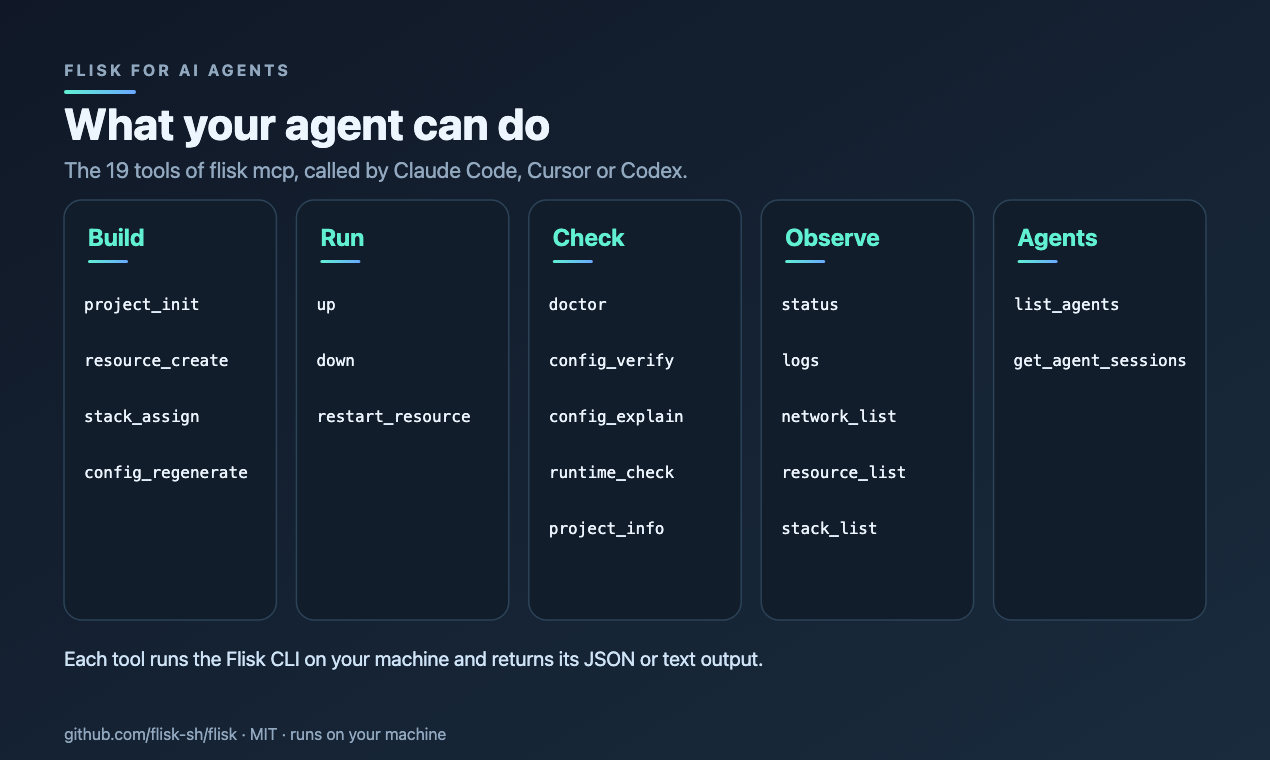
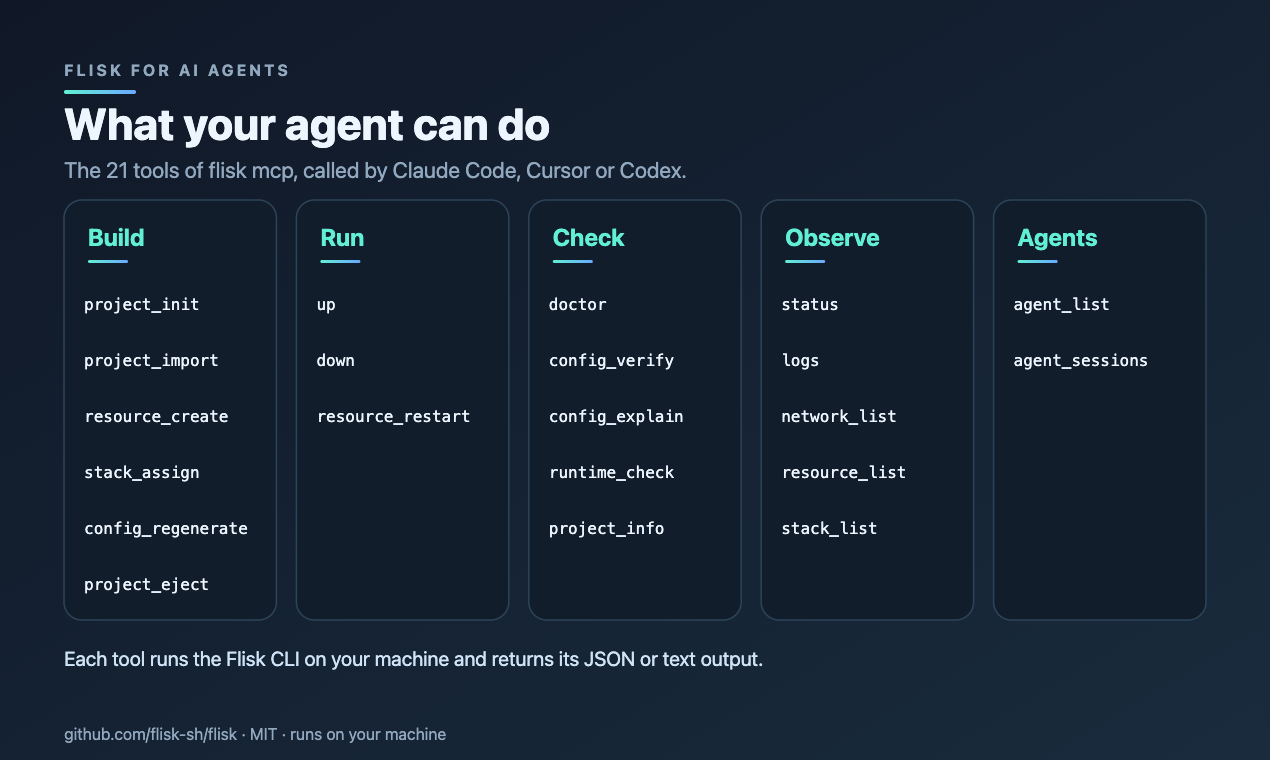
docs(launch): use flisk connect in the agents launch kit
flisk connect <claude|cursor|codex> shipped in 1.4.9, so gallery card 2
now shows it with the files each host gets, in place of the per-host
commands and the skills install. The kit's two open items are marked
shipped (the connect command, flisk.sh/agents), the first comment gets
the one-command line, and the posts point at flisk.sh/agents.

The tool facts follow flisk 1.4.10: 21 tools (was 19) on cards 1 and 3
and in the copy, card 3 lists the current names (resource_restart,
agent_list, agent_sessions) and the missing project_import and
project_eject, and the video script uses resource_restart.

diff --git a/docs/launch/flisk-for-agents/README.md b/docs/launch/flisk-for-agents/README.md
@@ -6,22 +6,23 @@ Everything the maker needs to post "Flisk for AI agents" on Product Hunt and to 
 - [checklist.md](checklist.md): the next 24 hours, in Pacific time.
 - [gallery/](gallery/): the five gallery images (SVG source and PNG), and the script that writes them.
 
-Before anything goes out, check two open items:
+The two items that were open have shipped:
 
-1. **The connect command.** The one-command connect is being built on the `feat/flisk-for-agents` branch and is not on `main` yet. The working name is flisk connect followed by the host (claude, cursor or codex). This kit uses the commands that work today (the per-host setup in [Set up the Flisk MCP server](../../agent-tooling/flisk-mcp-setup.md)). When the connect command merges, put its real name and flags into the first comment, the posts below and gallery card 2 (`CONNECT` in [gallery/build.mjs](gallery/build.mjs)), and run it once on a clean machine first.
-2. **The landing page.** flisk.sh/agents is being built. Until it answers, use the repository link (https://github.com/flisk-sh/flisk) as the product link.
+1. **The connect command.** `flisk connect claude`, `flisk connect cursor` and `flisk connect codex` are in the published CLI since 1.4.9 ([Flisk for AI agents](../../agents/flisk-for-agents.md)). This kit, the first comment and gallery card 2 use them. Run one once on a clean machine before the launch.
+2. **The landing page.** https://flisk.sh/agents/ answers. Use it as the product link, with the repository as the second link.
 
 ## What the product is (one paragraph, for anyone writing about it)
 
-Flisk for AI agents gives a coding agent (Claude Code, Cursor or Codex) the Flisk runtime: the `flisk mcp` server, which ships inside the Flisk CLI and exposes 19 tools, plus the Flisk agent skills. With them the agent can create a project, add services, start the stack on Docker and Tilt, check readiness, read logs and restart what broke, instead of hand-writing Compose files and guessing. The core is MIT and needs no key or account. It runs on the user's machine; it is not a hosted service and not a deploy tool.
+Flisk for AI agents gives a coding agent (Claude Code, Cursor or Codex) the Flisk runtime: the `flisk mcp` server, which ships inside the Flisk CLI and exposes 21 tools, plus the Flisk agent skills. With them the agent can create a project, add services, start the stack on Docker and Tilt, check readiness, read logs and restart what broke, instead of hand-writing Compose files and guessing. The core is MIT and needs no key or account. It runs on the user's machine; it is not a hosted service and not a deploy tool.
 
 Facts this rests on (check before you repeat them):
 
 | Fact | Where it is checked |
 | --- | --- |
-| `flisk mcp` has 19 tools | `cli/src/mcp/tools.ts`; a `tools/list` call against the CLI built from `main` returned 19 names on 2026-10-27, and the published `@flisk-sh/flisk` 1.4.8 package contains `project_init` and `stack_assign` |
+| `flisk mcp` has 21 tools | `cli/src/mcp/tools.ts`; a `tools/list` call to `flisk mcp` from the published `@flisk-sh/flisk` 1.4.10 binary returned 21 names on 2026-10-27 |
+| `flisk connect` sets up Claude Code, Cursor and Codex | [Flisk for AI agents](../../agents/flisk-for-agents.md); `flisk connect claude\|cursor\|codex --dry-run` from the published 1.4.10 package lists the files it writes |
 | Claude Code, Cursor, Codex (and Claude Desktop) are supported clients | [Set up the Flisk MCP server](../../agent-tooling/flisk-mcp-setup.md) |
-| Skills | [flisk-skills](https://github.com/flisk-sh/flisk-skills), installed with `npx skills add flisk-sh/flisk-skills`; `flisk project` also adds `.claude/skills`, `.agents/skills` and `AGENTS.md` to a new project (seen in a real `project_init` call) |
+| Skills | [flisk-skills](https://github.com/flisk-sh/flisk-skills); `flisk connect` writes them for the host, and `flisk project` also adds `.claude/skills`, `.agents/skills` and `AGENTS.md` to a new project (seen in a real `project_init` call) |
 | MIT core, no key | [LICENSE](../../../LICENSE), and the license boundary in GOVERNANCE.md |
 | Needs Docker and Tilt to start a stack; native Windows needs WSL2 for `flisk up` | [docs/wsl2.md](../../wsl2.md) and the setup page |
 
@@ -37,17 +38,17 @@ No performance numbers appear in this kit. If someone asks for one, use only the
 | --- | --- | --- |
 | 1 | Let your coding agent build and run your local stack | 52 |
 | 2 | Claude Code, Cursor and Codex, now with a local runtime | 55 |
-| 3 | 19 MCP tools so your AI agent can run the whole stack | 53 |
+| 3 | 21 MCP tools so your AI agent can run the whole stack | 53 |
 
 **Chosen: 1, "Let your coding agent build and run your local stack".** It says who acts (your agent), what it does (build and run) and where (local), without a number to defend or a list of brand names that reads like a partnership. Option 2 names the hosts, which is good for search but says less about the outcome; option 3 leads with a count, which is accurate but not a reason to care.
 
 **Description** (259 characters; Product Hunt allows up to 500, the kit keeps it to 260 so it fits a card):
 
-> Connect Claude Code, Cursor or Codex to the Flisk runtime: the flisk mcp server with 19 tools, plus the Flisk skills. Your agent scaffolds services, starts the stack on Docker and Tilt, reads status and logs, and fixes what broke. Free MIT core, runs locally.
+> Connect Claude Code, Cursor or Codex to the Flisk runtime: the flisk mcp server with 21 tools, plus the Flisk skills. Your agent scaffolds services, starts the stack on Docker and Tilt, reads status and logs, and fixes what broke. Free MIT core, runs locally.
 
 **Launch tags** (Product Hunt allows three): Developer Tools, Artificial Intelligence, Open Source.
 
-**Links:** the repository (https://github.com/flisk-sh/flisk) as the main link until flisk.sh/agents answers; then the landing page, with the repository as the second link.
+**Links:** the landing page (https://flisk.sh/agents/) as the main link, with the repository (https://github.com/flisk-sh/flisk) as the second link.
 
 **Thumbnail:** the existing Flisk mark, 240x240, under 3 MB. Do not reuse the Oct 27 listing's gallery.
 
@@ -59,7 +60,9 @@ Post it right after the listing goes live (it can also be added when scheduling)
 
 > Hi, I'm one of the people who make Flisk. Yesterday we put the Flisk CLI itself on Product Hunt. Today is the part we use most ourselves: handing a local stack to a coding agent.
 >
-> What it is: the flisk mcp server that ships inside the Flisk CLI (19 tools such as doctor, project_init, resource_create, up, status, logs and restart_resource) plus the Flisk skills. Connect it to Claude Code, Cursor or Codex, and the agent can create the project, add services, start them on Docker and Tilt, check which ones are ready and read the logs of the one that failed, instead of writing Compose files by hand and guessing.
+> What it is: the flisk mcp server that ships inside the Flisk CLI (21 tools such as doctor, project_init, resource_create, up, status, logs and resource_restart) plus the Flisk skills. Connect it to Claude Code, Cursor or Codex, and the agent can create the project, add services, start them on Docker and Tilt, check which ones are ready and read the logs of the one that failed, instead of writing Compose files by hand and guessing.
+>
+> One command connects it: `flisk connect claude` (or `cursor`, `codex`), after `npm install -g @flisk-sh/flisk`.
 >
 > What it is not: it is not hosted and not a deploy tool. It runs on your machine and needs Docker and Tilt to start a stack. On Windows it needs WSL2. The core is MIT and needs no key or account.
 >
@@ -67,7 +70,7 @@ Post it right after the listing goes live (it can also be added when scheduling)
 >
 > What would you want your agent to be able to do with your local stack that it cannot do today?
 
-About 170 words. If the connect command has merged, add one line after the second paragraph with the exact command, for example "One command connects it: (the command)". Do not add it before it works on a clean machine.
+About 185 words. Run the connect command once on a clean machine before posting; if it fails there, drop that line.
 
 ## Gallery
 
@@ -85,8 +88,8 @@ done
 | # | File | What it shows | Alt text |
 | --- | --- | --- | --- |
 | 1 | `gallery/01-title.png` | The name, the chosen tagline, the three hosts and the five verbs (scaffold, start, check, read logs, fix) | Flisk for AI agents: let your coding agent build and run your local stack |
-| 2 | `gallery/02-connect.png` | The per-host commands that connect Claude Code, Codex and Cursor to `flisk mcp`, plus the skills install, and the CLI install line | The commands that connect Claude Code, Codex and Cursor to the Flisk MCP server |
-| 3 | `gallery/03-agent-tools.png` | The 19 tool names, grouped as Build, Run, Check, Observe and Agents | The 19 tools of the Flisk MCP server, grouped by what an agent does with them |
+| 2 | `gallery/02-connect.png` | `flisk connect claude`, `cursor` and `codex`, the files each one writes, and the CLI install line | One command connects Claude Code, Cursor or Codex to the Flisk MCP server and skills |
+| 3 | `gallery/03-agent-tools.png` | The 21 tool names, grouped as Build, Run, Check, Observe and Agents | The 21 tools of the Flisk MCP server, grouped by what an agent does with them |
 | 4 | `gallery/04-transcript.png` | An agent session: project_init, two resource_create calls, doctor, up and status, with output from a real run | An AI agent creates a two-service shop with the Flisk MCP tools and starts it |
 | 5 | `gallery/05-free-local-mit.png` | Free, local, MIT, and the install command | Flisk for AI agents is free, runs locally and is MIT licensed |
 
@@ -99,12 +102,12 @@ Record a real session; do not stage output. Screen at 1920x1080, terminal font a
 | # | Time | Screen | Voice-over |
 | --- | --- | --- | --- |
 | 1 | 0:00-0:06 | Gallery card 1 | "This is Flisk for AI agents. It lets your coding agent build and run your local stack." |
-| 2 | 0:06-0:18 | Terminal in an empty folder: the Claude Code connect command (card 2), then `/mcp` inside Claude Code showing flisk connected | "Connect it once. Here it is Claude Code; Cursor and Codex work the same way." |
+| 2 | 0:06-0:18 | Terminal in an empty folder: `flisk connect claude` (card 2), then `/mcp` inside Claude Code showing flisk connected | "Connect it once. Here it is Claude Code; Cursor and Codex work the same way." |
 | 3 | 0:18-0:28 | Type the prompt: "Build a small shop: a storefront and an orders API. Start it and check it." | "Then ask for what you want, in plain words." |
 | 4 | 0:28-0:45 | The agent calls `project_init` and `resource_create` twice; show the "Resource created successfully" lines | "The agent creates the project and the two services through Flisk's tools. Each service gets one service.json." |
 | 5 | 0:45-0:60 | The agent calls `doctor`, then `up`, then `status` until both services are ready (cut the wait, with an on-screen "build cut") | "It checks the machine, starts the stack on Docker and Tilt, and checks which services are ready." |
 | 6 | 0:60-0:72 | Open the storefront URL the agent printed in a browser | "Both parts are running on this laptop, at local URLs." |
-| 7 | 0:72-0:80 | Optional, if it happened naturally in the recording: a failing service, the agent calling `logs`, fixing the file and calling `restart_resource` | "When something fails, it reads the logs and restarts what it fixed." |
+| 7 | 0:72-0:80 | Optional, if it happened naturally in the recording: a failing service, the agent calling `logs`, fixing the file and calling `resource_restart` | "When something fails, it reads the logs and restarts what it fixed." |
 | 8 | 0:80-0:88 | Gallery card 5 | "Free, MIT, and it runs on your machine. Not a deploy tool." |
 
 Do not fake scene 7. If no failure happened, drop it and keep the video at about 75 seconds.
@@ -115,7 +118,7 @@ Post these only after the Product Hunt listing is live, from the maker's own acc
 
 ### X (one post, under 280 characters)
 
-> Flisk for AI agents: connect Claude Code, Cursor or Codex to the flisk mcp server (19 tools) and the Flisk skills, and your agent can scaffold, start, check and fix a local stack on Docker and Tilt. MIT, runs on your machine.
+> Flisk for AI agents: connect Claude Code, Cursor or Codex to the flisk mcp server (21 tools) and the Flisk skills, and your agent can scaffold, start, check and fix a local stack on Docker and Tilt. MIT, runs on your machine.
 >
 > (Product Hunt link)
 
@@ -127,7 +130,7 @@ Follow-up reply in the same thread, with gallery card 4 attached:
 
 > Yesterday we put the Flisk CLI on Product Hunt. Today it is the part we use most ourselves: Flisk for AI agents.
 >
-> It connects a coding agent (Claude Code, Cursor or Codex) to the flisk mcp server that ships inside the Flisk CLI, plus the Flisk skills. With its 19 tools the agent can create a project, add services, start them on Docker and Tilt, check readiness, and read the logs of whatever failed.
+> It connects a coding agent (Claude Code, Cursor or Codex) to the flisk mcp server that ships inside the Flisk CLI, plus the Flisk skills. With its 21 tools the agent can create a project, add services, start them on Docker and Tilt, check readiness, and read the logs of whatever failed.
 >
 > What it is not: it is not hosted and not a deploy tool. Production stays on whatever you use today. The core is MIT and needs no key.
 >
@@ -137,7 +140,7 @@ Follow-up reply in the same thread, with gallery card 4 attached:
 
 ### Discord (Flisk server, announcements)
 
-> Flisk for AI agents is on Product Hunt today. It is the flisk mcp server and the Flisk skills, packaged so Claude Code, Cursor or Codex can scaffold, start, check and fix a local stack. Setup per host: https://github.com/flisk-sh/flisk/blob/main/docs/agent-tooling/flisk-mcp-setup.md
+> Flisk for AI agents is on Product Hunt today. It is the flisk mcp server and the Flisk skills, packaged so Claude Code, Cursor or Codex can scaffold, start, check and fix a local stack. Setup is one command, `flisk connect claude` (or `cursor`, `codex`): https://flisk.sh/agents/
 >
 > If you have tried Flisk with an agent, the most useful thing you can do is say what broke, here or on the listing. (Product Hunt link)
 
@@ -145,7 +148,7 @@ Follow-up reply in the same thread, with gallery card 4 attached:
 
 Do not post a second Show HN on launch day. The Show HN for the Flisk CLI is planned in [docs/marketing/launch-plan.md](../../marketing/launch-plan.md), and Hacker News flags a resubmission of the same repository URL. If the maker wants an HN post about the agent side, use this as a comment in the existing Show HN thread when someone asks about agents, not as a new submission:
 
-> The agent side is the flisk mcp server that ships in the CLI: 19 tools (doctor, up, status, logs, resource_create, config_verify and so on) over stdio. Each tool runs the same CLI command and returns its JSON envelope or text output, so what the agent sees is what you would see. Setup for Codex, Claude Code and Cursor: docs/agent-tooling/flisk-mcp-setup.md.
+> The agent side is the flisk mcp server that ships in the CLI: 21 tools (doctor, up, status, logs, resource_create, config_verify and so on) over stdio. Each tool runs the same CLI command and returns its JSON envelope or text output, so what the agent sees is what you would see. Setup for Claude Code, Cursor and Codex is `flisk connect <host>`: docs/agents/flisk-for-agents.md.
 
 ## Note to the four adopter teams
 
@@ -155,7 +158,7 @@ Send one personal message to each team (Lekast, MakeOffer, mfin.services, Red Mo
 >
 > Thanks again for running Flisk on your own code and for letting us list you as an adopter.
 >
-> Tomorrow we put a second thing on Product Hunt: Flisk for AI agents, which connects Claude Code, Cursor or Codex to the Flisk MCP server and skills so the agent can start and check your stack itself. Setup is here: https://github.com/flisk-sh/flisk/blob/main/docs/agent-tooling/flisk-mcp-setup.md
+> Tomorrow we put a second thing on Product Hunt: Flisk for AI agents, which connects Claude Code, Cursor or Codex to the Flisk MCP server and skills so the agent can start and check your stack itself. Setup is one command, `flisk connect claude` (or `cursor`, `codex`): https://flisk.sh/agents/
 >
 > I am not asking for an upvote. What would help is honest feedback: if someone on your team tries it with your real project, what did the agent get wrong, and what did it get right? A short reply, a GitHub issue, or a comment on the listing if you want it public, all work. If you have no time this week, that is completely fine.
 >

diff --git a/docs/launch/flisk-for-agents/checklist.md b/docs/launch/flisk-for-agents/checklist.md
@@ -10,9 +10,9 @@ The copy for every step is in [README.md](README.md). Why each step is here is i
 
 | By (PT) | Who | Step | Done |
 | --- | --- | --- | --- |
-| 14:00 | Maker | Decide go or no-go on the connect command: if it is merged and works on a clean machine, add it to the first comment and card 2 (`CONNECT` in [gallery/build.mjs](gallery/build.mjs)), re-render, re-check. If not, launch with the per-host commands that work today. | [ ] |
+| 14:00 | Maker | Check the connect command on a clean machine: `npm install -g @flisk-sh/flisk`, then `flisk connect claude --dry-run` and `flisk connect claude`. The first comment and card 2 already use it (shipped in 1.4.9); if it fails there, drop that line from the first comment and tell the maintainers. | [ ] |
 | 14:00 | Maker | Ask Product Hunt support (help.producthunt.com, or the support chat on the site) two questions: does a separate "Flisk for AI agents" listing, one day after the Flisk listing, meet their guidelines for a new product, and is there anything that would keep it from being featured? Record the answer and its time in the launch log. | [ ] |
-| 15:00 | Maker | Run the whole flow once on a clean folder: install, connect Claude Code (or the connect command), ask the agent to build and start the two-service shop, check `status`. If it fails, fix or cut the claim before it goes on the listing. | [ ] |
+| 15:00 | Maker | Run the whole flow once on a clean folder: install, run `flisk connect claude`, ask the agent to build and start the two-service shop, check `status`. If it fails, fix or cut the claim before it goes on the listing. | [ ] |
 | 16:00 | Maker | Record the video (README, "Video"). Upload it to YouTube as unlisted (Product Hunt takes a YouTube link). | [ ] |
 | 17:00 | Maker | Fill in the listing in Product Hunt's launch flow: name, tagline 1, description, three launch tags, links, thumbnail, the five gallery PNG files in order with their alt text, the video, makers. Paste the first comment. | [ ] |
 | 17:30 | Maker | **Schedule** the listing for Wed Oct 28, 00:01 PT (Product Hunt lets you schedule up to a month ahead). Open the scheduled listing's preview once and check every image, link and line. Do not use "Launch now". | [ ] |

diff --git a/docs/launch/flisk-for-agents/lessons-learned.md b/docs/launch/flisk-for-agents/lessons-learned.md
@@ -48,4 +48,4 @@ Where an item says "observed", it was seen on the day. Where it says "not verifi
 ## What does not change
 
 - No vote requests, no vote swaps, no new accounts, no company account. These break Product Hunt's rules (see [checklist.md](checklist.md), "What not to do") and they would not have fixed any of the problems above.
-- No numbers in posts other than the 19 tools, which is a count of the code, and the wording in [docs/claims.md](../../claims.md).
+- No numbers in posts other than the 21 tools, which is a count of the code, and the wording in [docs/claims.md](../../claims.md).
